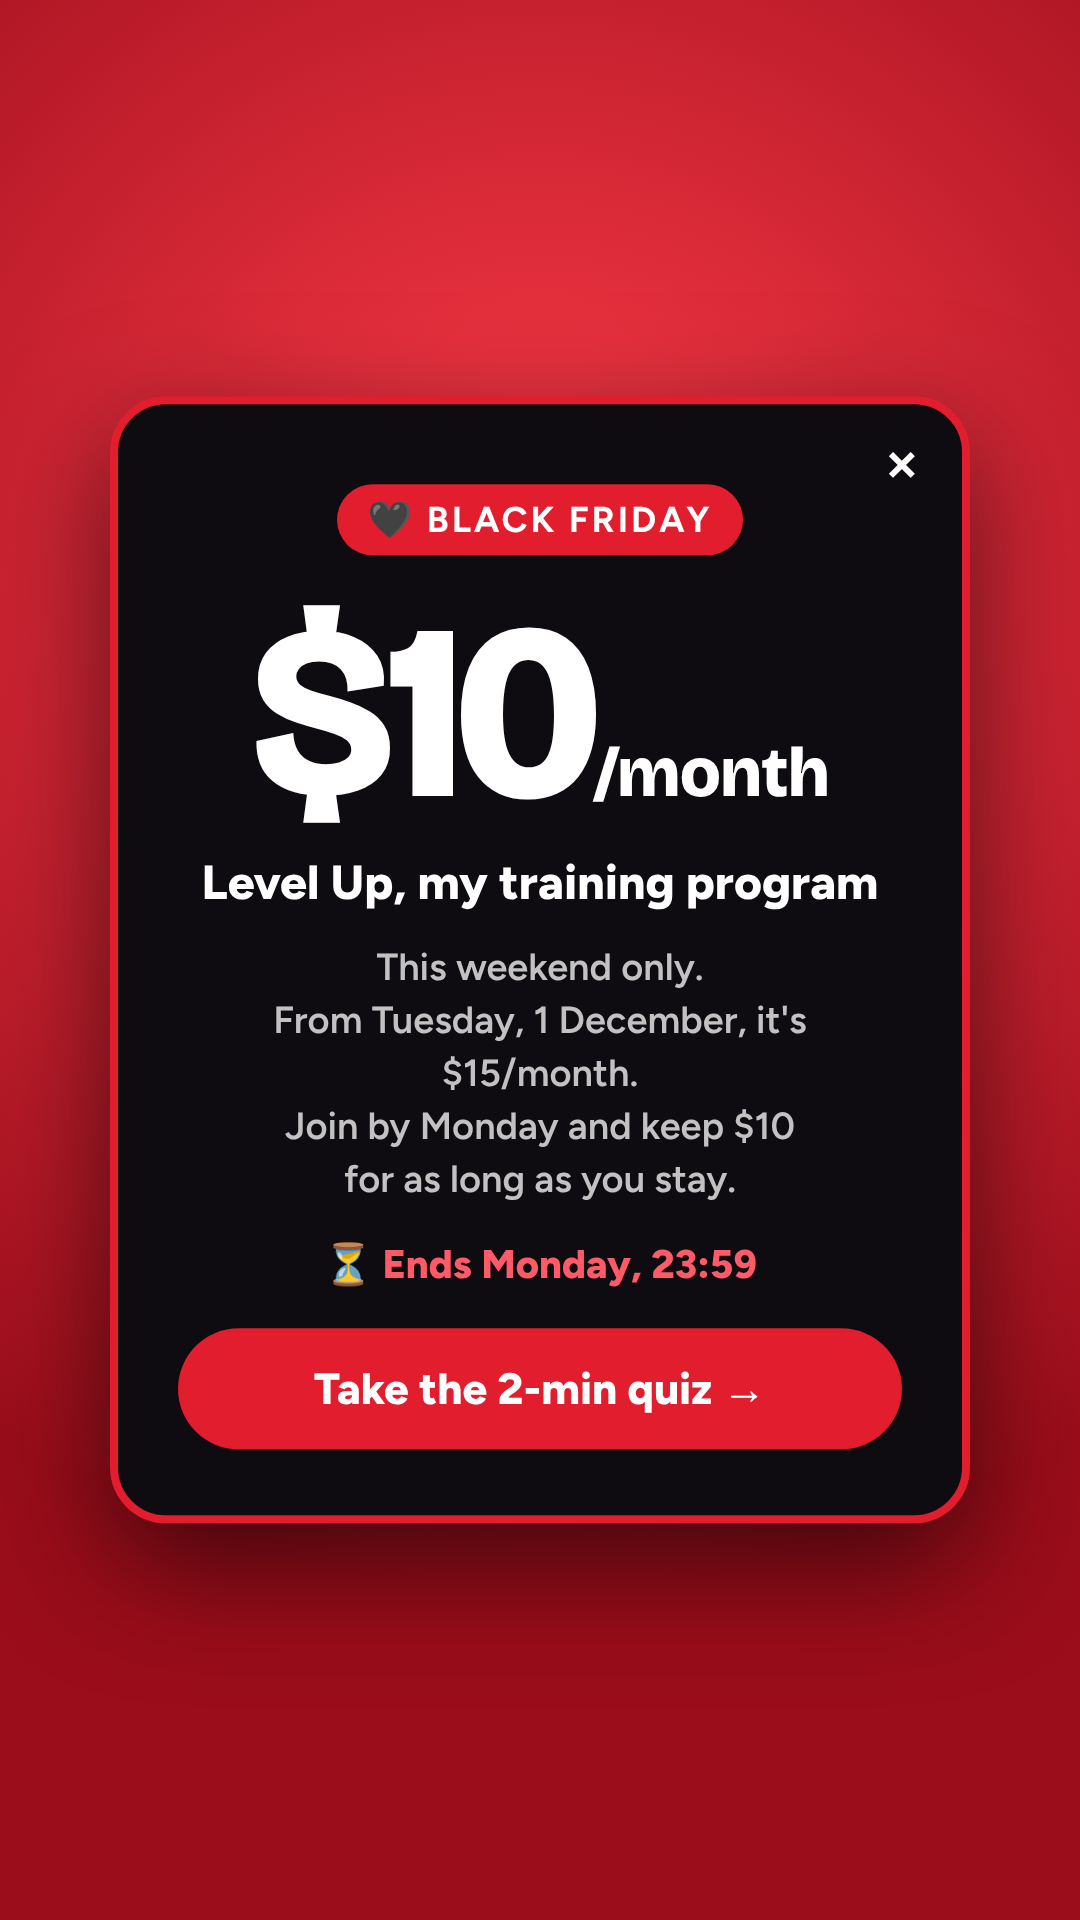
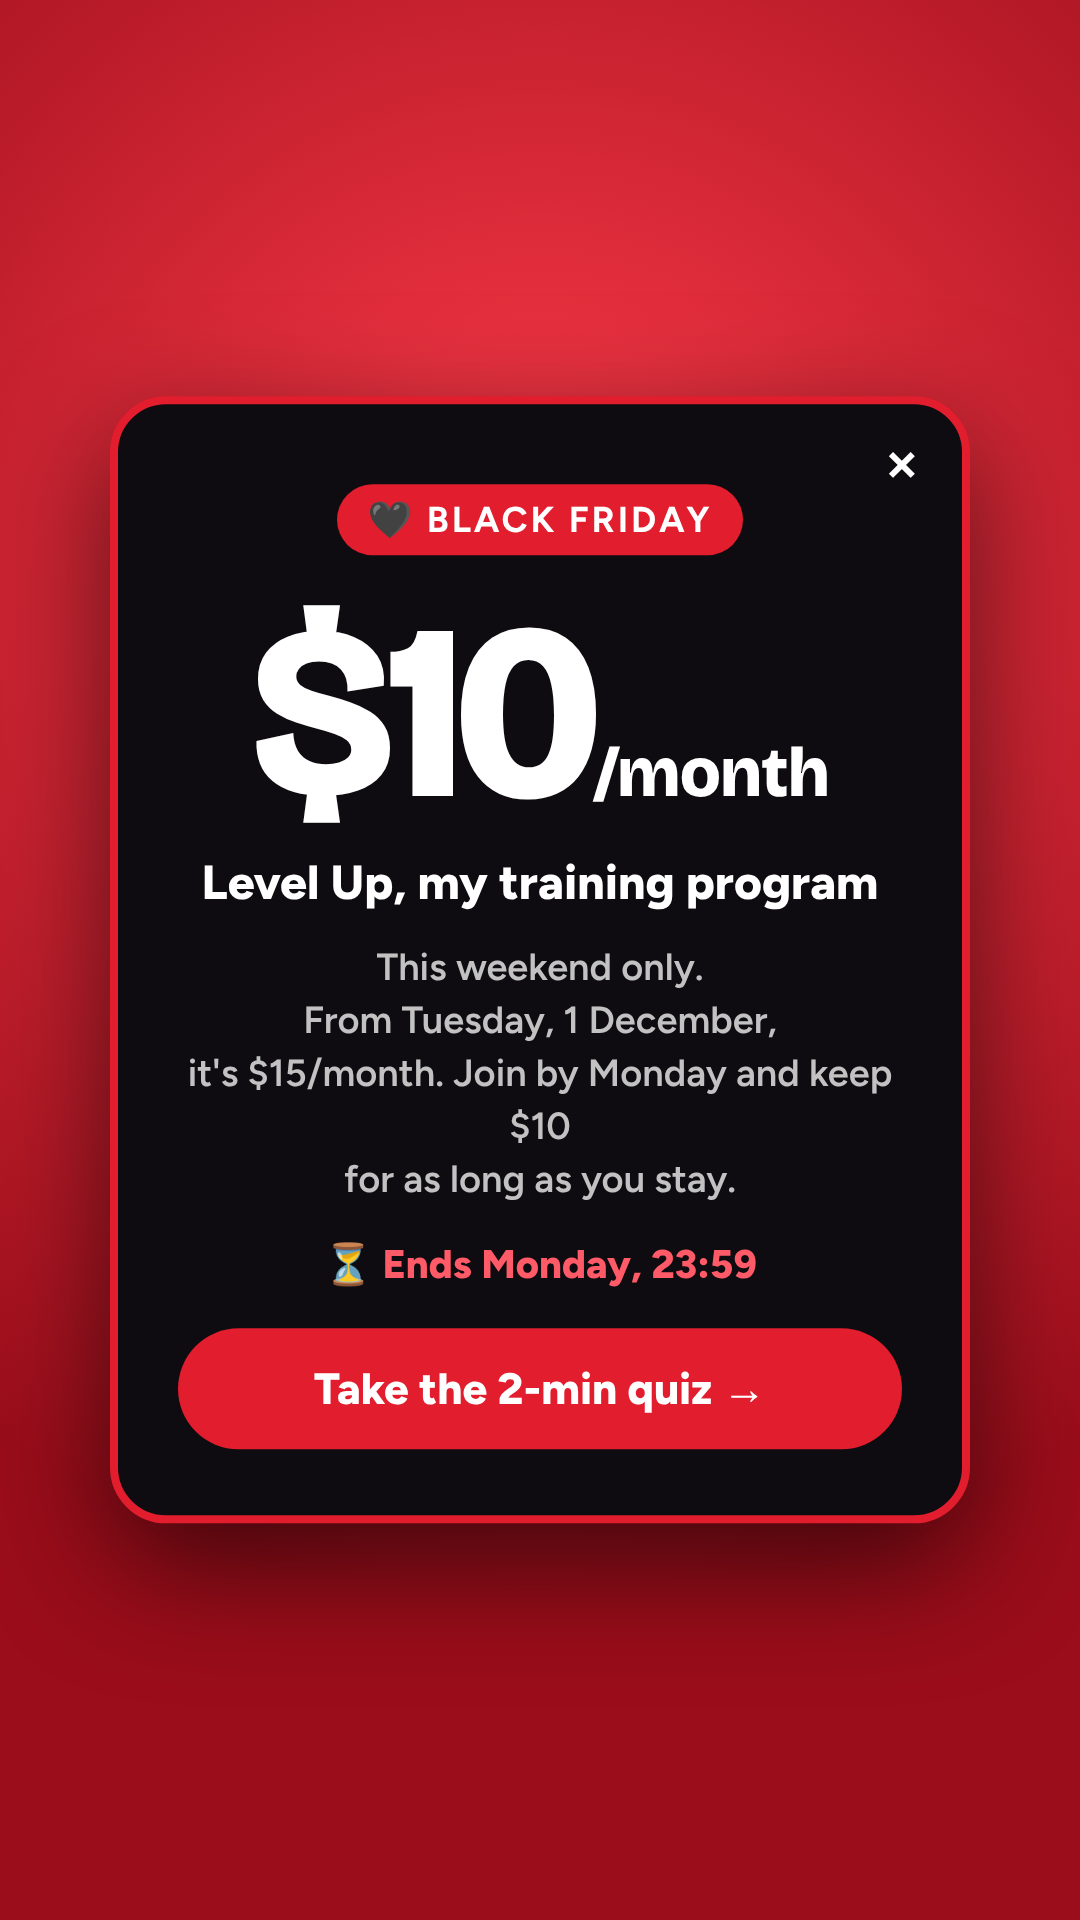
Black Friday: rândurile din pop-up-ul roșu
Claude-Session: https://claude.ai/code/session_01AYCYtwFQ1HqKG8gwud9c92

Changed region(s): [[0.1833, 0.5, 0.825, 0.5938]]

diff --git a/brand/lansare/build_story_bf.py b/brand/lansare/build_story_bf.py
@@ -38,7 +38,7 @@ def card(scara=1.0):
   <span class="tag" style="background:#E11D2E;font-size:36px;letter-spacing:.08em">🖤 BLACK FRIDAY</span>
   <h1 class="white" style="font-size:250px;margin-top:40px">$10<span style="font-size:70px;letter-spacing:0">/month</span></h1>
   <p class="white" style="font-size:48px;font-weight:800;margin:20px 0 0">Level Up, my training program</p>
-  <p style="color:rgba(255,255,255,.75);font-size:38px;font-weight:600;line-height:1.4;margin:30px 0 0">This weekend only.<br>From Tuesday, 1 December, it's $15/month.<br>Join by Monday and keep $10<br>for as long as you stay.</p>
+  <p style="color:rgba(255,255,255,.75);font-size:38px;font-weight:600;line-height:1.4;margin:30px 0 0">This weekend only.<br>From Tuesday, 1 December,<br>it's $15/month. Join by Monday and keep $10<br>for as long as you stay.</p>
   <p style="color:#FF5A67;font-size:40px;font-weight:800;margin:34px 0 0">⏳ Ends Monday, 23:59</p>
   <div style="background:#E11D2E;color:#fff;font-weight:800;font-size:44px;border-radius:999px;padding:34px;margin-top:40px">Take the 2-min quiz →</div></div>''' % scara)
 
